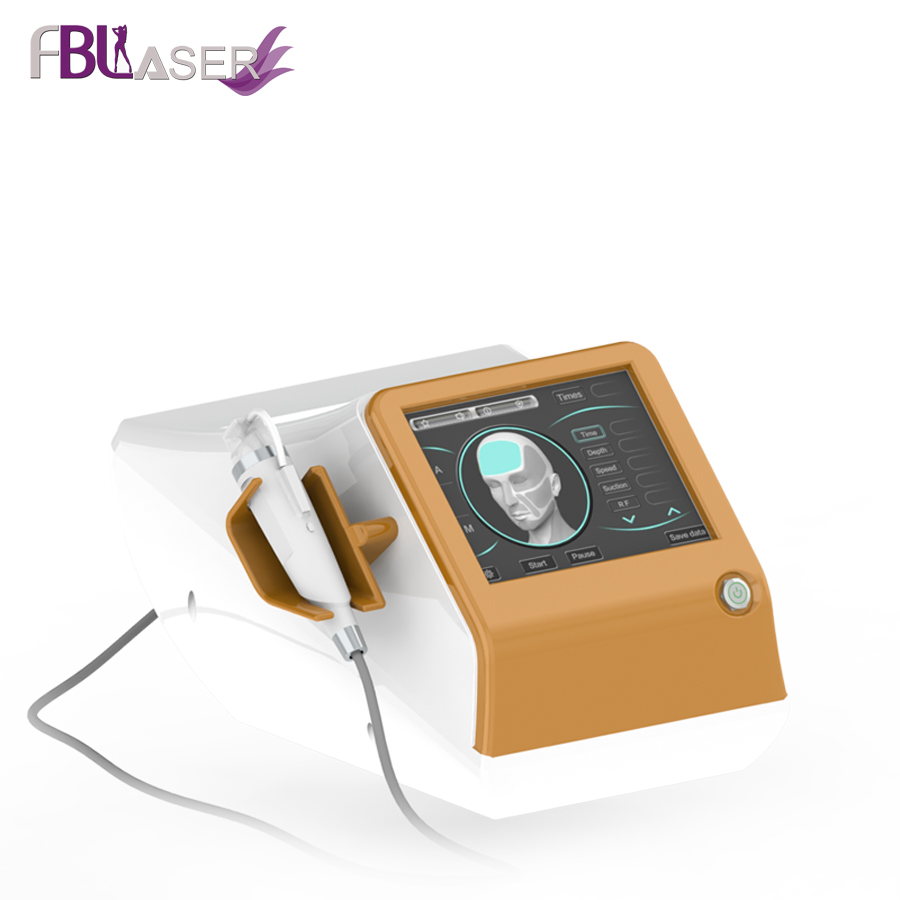
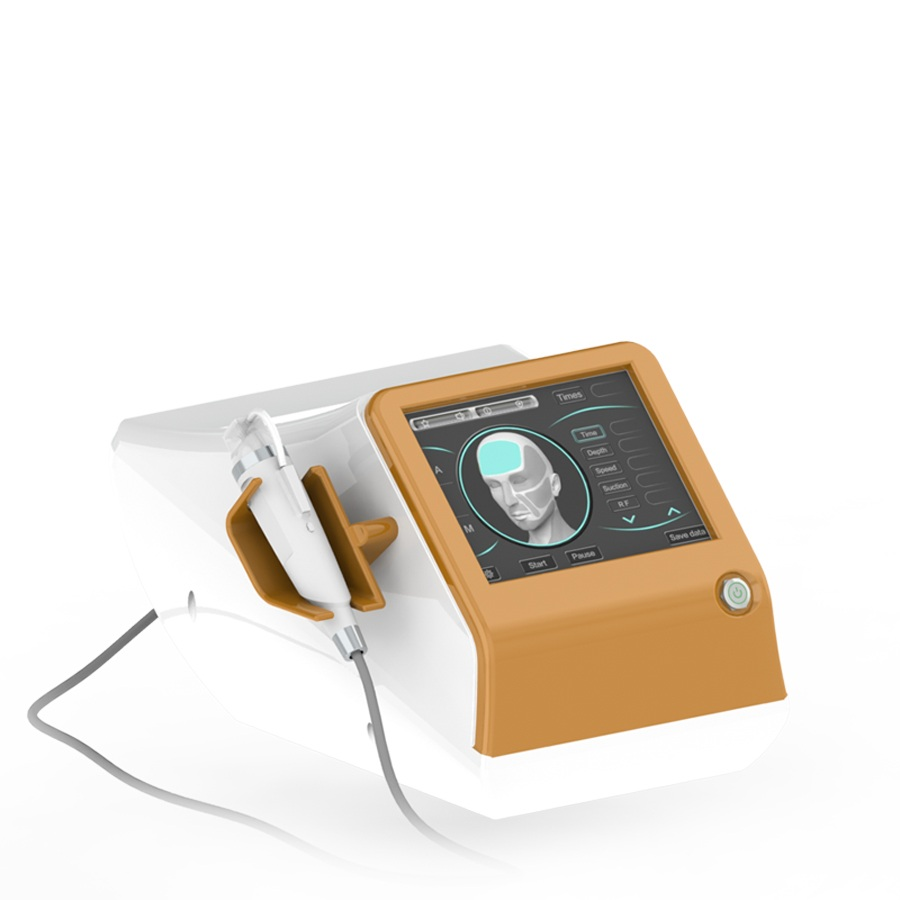
asdasd

Changed region(s): [[0.0311, 0.0, 0.3422, 0.1244]]

diff --git a/micro-needle.html b/micro-needle.html
@@ -193,7 +193,7 @@
         
         
         <div class="lmt">
-        <div class="lm"><img src="product/images/vi5.jpg"></div>
+        <div class="lm"><img src="product/images/vi6.jpg"></div>
             <div class="lt"><p>Microneedle RF Pinxel-2</p></div>
         </div>
        
